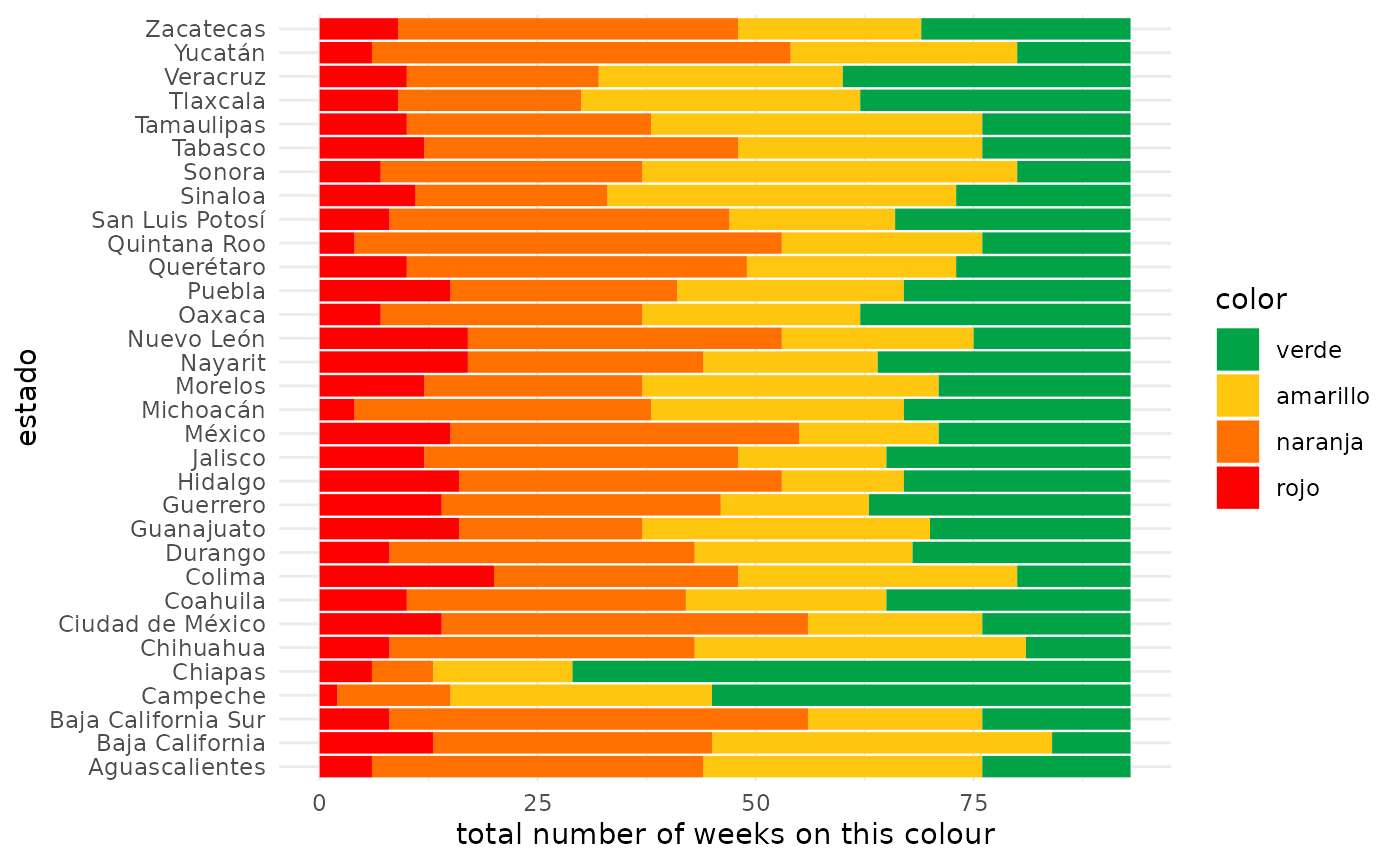
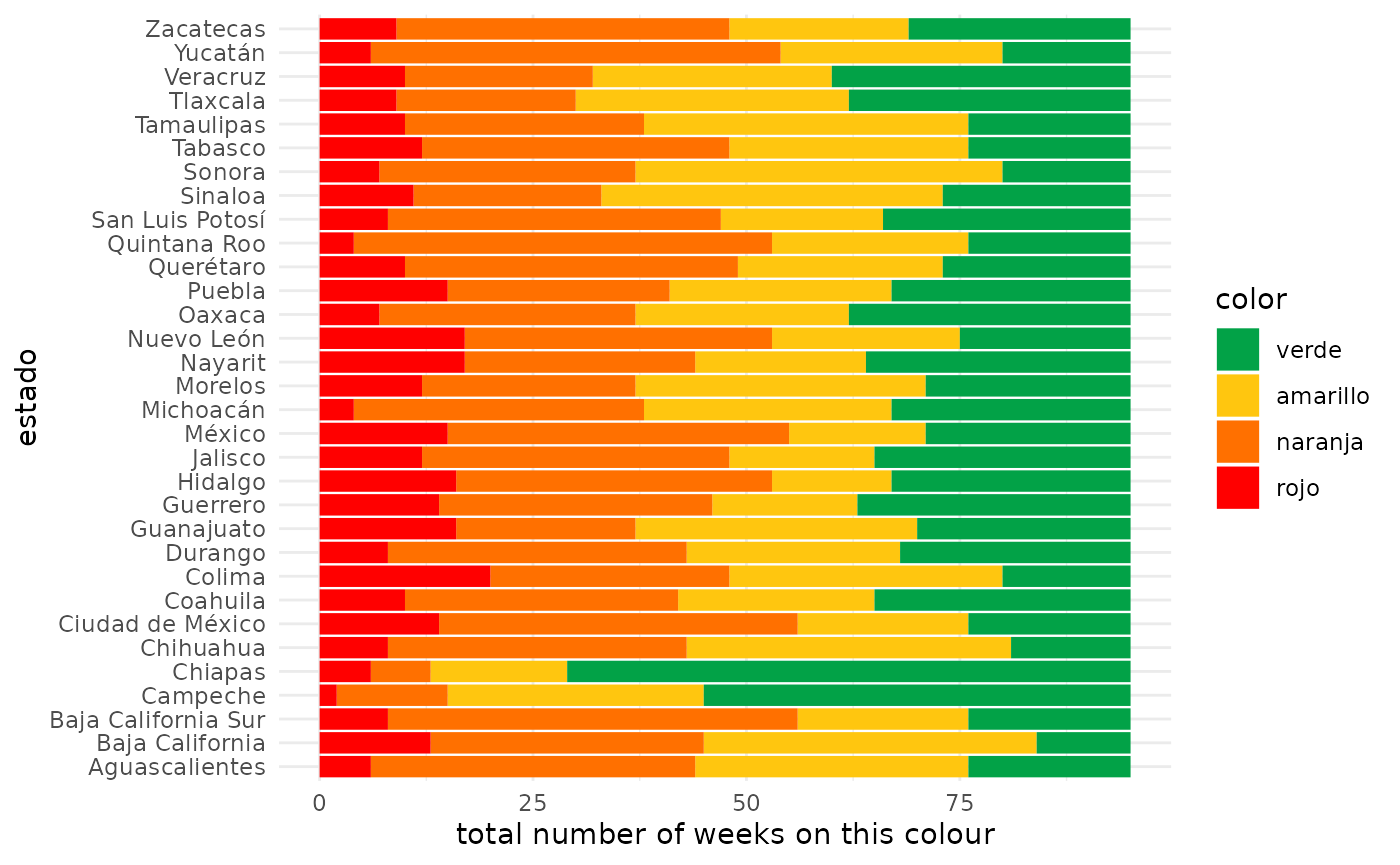
Deploying to gh-pages from @ Bisaloo/semaforos@39e5a9e5e9b524c49114589165b61118e1bcc486 🚀

diff --git a/articles/semaforos.html b/articles/semaforos.html
@@ -123,7 +123,7 @@
       <span class="fu"><a href="https://ggplot2.tidyverse.org/reference/labs.html" class="external-link">labs</a></span><span class="op">(</span>title <span class="op">=</span> <span class="fu"><a href="https://rdrr.io/r/base/paste.html" class="external-link">paste</a></span><span class="op">(</span><span class="st">"Semáforos for week"</span>, <span class="va">w</span><span class="op">)</span><span class="op">)</span>
   <span class="op">)</span>
 <span class="op">}</span></code></pre></div>
-<p><img src="semaforos_files/figure-html/maps-ggplot-1.png" width="30%"><img src="semaforos_files/figure-html/maps-ggplot-2.png" width="30%"><img src="semaforos_files/figure-html/maps-ggplot-3.png" width="30%"><img src="semaforos_files/figure-html/maps-ggplot-4.png" width="30%"><img src="semaforos_files/figure-html/maps-ggplot-5.png" width="30%"><img src="semaforos_files/figure-html/maps-ggplot-6.png" width="30%"><img src="semaforos_files/figure-html/maps-ggplot-7.png" width="30%"><img src="semaforos_files/figure-html/maps-ggplot-8.png" width="30%"><img src="semaforos_files/figure-html/maps-ggplot-9.png" width="30%"><img src="semaforos_files/figure-html/maps-ggplot-10.png" width="30%"><img src="semaforos_files/figure-html/maps-ggplot-11.png" width="30%"><img src="semaforos_files/figure-html/maps-ggplot-12.png" width="30%"><img src="semaforos_files/figure-html/maps-ggplot-13.png" width="30%"><img src="semaforos_files/figure-html/maps-ggplot-14.png" width="30%"><img src="semaforos_files/figure-html/maps-ggplot-15.png" width="30%"><img src="semaforos_files/figure-html/maps-ggplot-16.png" width="30%"><img src="semaforos_files/figure-html/maps-ggplot-17.png" width="30%"><img src="semaforos_files/figure-html/maps-ggplot-18.png" width="30%"><img src="semaforos_files/figure-html/maps-ggplot-19.png" width="30%"><img src="semaforos_files/figure-html/maps-ggplot-20.png" width="30%"><img src="semaforos_files/figure-html/maps-ggplot-21.png" width="30%"><img src="semaforos_files/figure-html/maps-ggplot-22.png" width="30%"><img src="semaforos_files/figure-html/maps-ggplot-23.png" width="30%"><img src="semaforos_files/figure-html/maps-ggplot-24.png" width="30%"><img src="semaforos_files/figure-html/maps-ggplot-25.png" width="30%"><img src="semaforos_files/figure-html/maps-ggplot-26.png" width="30%"><img src="semaforos_files/figure-html/maps-ggplot-27.png" width="30%"><img src="semaforos_files/figure-html/maps-ggplot-28.png" width="30%"><img src="semaforos_files/figure-html/maps-ggplot-29.png" width="30%"><img src="semaforos_files/figure-html/maps-ggplot-30.png" width="30%"><img src="semaforos_files/figure-html/maps-ggplot-31.png" width="30%"><img src="semaforos_files/figure-html/maps-ggplot-32.png" width="30%"><img src="semaforos_files/figure-html/maps-ggplot-33.png" width="30%"><img src="semaforos_files/figure-html/maps-ggplot-34.png" width="30%"><img src="semaforos_files/figure-html/maps-ggplot-35.png" width="30%"><img src="semaforos_files/figure-html/maps-ggplot-36.png" width="30%"><img src="semaforos_files/figure-html/maps-ggplot-37.png" width="30%"><img src="semaforos_files/figure-html/maps-ggplot-38.png" width="30%"><img src="semaforos_files/figure-html/maps-ggplot-39.png" width="30%"><img src="semaforos_files/figure-html/maps-ggplot-40.png" width="30%"><img src="semaforos_files/figure-html/maps-ggplot-41.png" width="30%"><img src="semaforos_files/figure-html/maps-ggplot-42.png" width="30%"><img src="semaforos_files/figure-html/maps-ggplot-43.png" width="30%"><img src="semaforos_files/figure-html/maps-ggplot-44.png" width="30%"><img src="semaforos_files/figure-html/maps-ggplot-45.png" width="30%"><img src="semaforos_files/figure-html/maps-ggplot-46.png" width="30%"><img src="semaforos_files/figure-html/maps-ggplot-47.png" width="30%"><img src="semaforos_files/figure-html/maps-ggplot-48.png" width="30%"><img src="semaforos_files/figure-html/maps-ggplot-49.png" width="30%"><img src="semaforos_files/figure-html/maps-ggplot-50.png" width="30%"><img src="semaforos_files/figure-html/maps-ggplot-51.png" width="30%"><img src="semaforos_files/figure-html/maps-ggplot-52.png" width="30%"><img src="semaforos_files/figure-html/maps-ggplot-53.png" width="30%"><img src="semaforos_files/figure-html/maps-ggplot-54.png" width="30%"><img src="semaforos_files/figure-html/maps-ggplot-55.png" width="30%"><img src="semaforos_files/figure-html/maps-ggplot-56.png" width="30%"><img src="semaforos_files/figure-html/maps-ggplot-57.png" width="30%"><img src="semaforos_files/figure-html/maps-ggplot-58.png" width="30%"><img src="semaforos_files/figure-html/maps-ggplot-59.png" width="30%"><img src="semaforos_files/figure-html/maps-ggplot-60.png" width="30%"><img src="semaforos_files/figure-html/maps-ggplot-61.png" width="30%"><img src="semaforos_files/figure-html/maps-ggplot-62.png" width="30%"><img src="semaforos_files/figure-html/maps-ggplot-63.png" width="30%"><img src="semaforos_files/figure-html/maps-ggplot-64.png" width="30%"><img src="semaforos_files/figure-html/maps-ggplot-65.png" width="30%"><img src="semaforos_files/figure-html/maps-ggplot-66.png" width="30%"><img src="semaforos_files/figure-html/maps-ggplot-67.png" width="30%"><img src="semaforos_files/figure-html/maps-ggplot-68.png" width="30%"><img src="semaforos_files/figure-html/maps-ggplot-69.png" width="30%"><img src="semaforos_files/figure-html/maps-ggplot-70.png" width="30%"><img src="semaforos_files/figure-html/maps-ggplot-71.png" width="30%"><img src="semaforos_files/figure-html/maps-ggplot-72.png" width="30%"><img src="semaforos_files/figure-html/maps-ggplot-73.png" width="30%"><img src="semaforos_files/figure-html/maps-ggplot-74.png" width="30%"><img src="semaforos_files/figure-html/maps-ggplot-75.png" width="30%"><img src="semaforos_files/figure-html/maps-ggplot-76.png" width="30%"><img src="semaforos_files/figure-html/maps-ggplot-77.png" width="30%"><img src="semaforos_files/figure-html/maps-ggplot-78.png" width="30%"><img src="semaforos_files/figure-html/maps-ggplot-79.png" width="30%"><img src="semaforos_files/figure-html/maps-ggplot-80.png" width="30%"><img src="semaforos_files/figure-html/maps-ggplot-81.png" width="30%"><img src="semaforos_files/figure-html/maps-ggplot-82.png" width="30%"><img src="semaforos_files/figure-html/maps-ggplot-83.png" width="30%"><img src="semaforos_files/figure-html/maps-ggplot-84.png" width="30%"><img src="semaforos_files/figure-html/maps-ggplot-85.png" width="30%"><img src="semaforos_files/figure-html/maps-ggplot-86.png" width="30%"><img src="semaforos_files/figure-html/maps-ggplot-87.png" width="30%"><img src="semaforos_files/figure-html/maps-ggplot-88.png" width="30%"><img src="semaforos_files/figure-html/maps-ggplot-89.png" width="30%"><img src="semaforos_files/figure-html/maps-ggplot-90.png" width="30%"><img src="semaforos_files/figure-html/maps-ggplot-91.png" width="30%"><img src="semaforos_files/figure-html/maps-ggplot-92.png" width="30%"><img src="semaforos_files/figure-html/maps-ggplot-93.png" width="30%"></p>
+<p><img src="semaforos_files/figure-html/maps-ggplot-1.png" width="30%"><img src="semaforos_files/figure-html/maps-ggplot-2.png" width="30%"><img src="semaforos_files/figure-html/maps-ggplot-3.png" width="30%"><img src="semaforos_files/figure-html/maps-ggplot-4.png" width="30%"><img src="semaforos_files/figure-html/maps-ggplot-5.png" width="30%"><img src="semaforos_files/figure-html/maps-ggplot-6.png" width="30%"><img src="semaforos_files/figure-html/maps-ggplot-7.png" width="30%"><img src="semaforos_files/figure-html/maps-ggplot-8.png" width="30%"><img src="semaforos_files/figure-html/maps-ggplot-9.png" width="30%"><img src="semaforos_files/figure-html/maps-ggplot-10.png" width="30%"><img src="semaforos_files/figure-html/maps-ggplot-11.png" width="30%"><img src="semaforos_files/figure-html/maps-ggplot-12.png" width="30%"><img src="semaforos_files/figure-html/maps-ggplot-13.png" width="30%"><img src="semaforos_files/figure-html/maps-ggplot-14.png" width="30%"><img src="semaforos_files/figure-html/maps-ggplot-15.png" width="30%"><img src="semaforos_files/figure-html/maps-ggplot-16.png" width="30%"><img src="semaforos_files/figure-html/maps-ggplot-17.png" width="30%"><img src="semaforos_files/figure-html/maps-ggplot-18.png" width="30%"><img src="semaforos_files/figure-html/maps-ggplot-19.png" width="30%"><img src="semaforos_files/figure-html/maps-ggplot-20.png" width="30%"><img src="semaforos_files/figure-html/maps-ggplot-21.png" width="30%"><img src="semaforos_files/figure-html/maps-ggplot-22.png" width="30%"><img src="semaforos_files/figure-html/maps-ggplot-23.png" width="30%"><img src="semaforos_files/figure-html/maps-ggplot-24.png" width="30%"><img src="semaforos_files/figure-html/maps-ggplot-25.png" width="30%"><img src="semaforos_files/figure-html/maps-ggplot-26.png" width="30%"><img src="semaforos_files/figure-html/maps-ggplot-27.png" width="30%"><img src="semaforos_files/figure-html/maps-ggplot-28.png" width="30%"><img src="semaforos_files/figure-html/maps-ggplot-29.png" width="30%"><img src="semaforos_files/figure-html/maps-ggplot-30.png" width="30%"><img src="semaforos_files/figure-html/maps-ggplot-31.png" width="30%"><img src="semaforos_files/figure-html/maps-ggplot-32.png" width="30%"><img src="semaforos_files/figure-html/maps-ggplot-33.png" width="30%"><img src="semaforos_files/figure-html/maps-ggplot-34.png" width="30%"><img src="semaforos_files/figure-html/maps-ggplot-35.png" width="30%"><img src="semaforos_files/figure-html/maps-ggplot-36.png" width="30%"><img src="semaforos_files/figure-html/maps-ggplot-37.png" width="30%"><img src="semaforos_files/figure-html/maps-ggplot-38.png" width="30%"><img src="semaforos_files/figure-html/maps-ggplot-39.png" width="30%"><img src="semaforos_files/figure-html/maps-ggplot-40.png" width="30%"><img src="semaforos_files/figure-html/maps-ggplot-41.png" width="30%"><img src="semaforos_files/figure-html/maps-ggplot-42.png" width="30%"><img src="semaforos_files/figure-html/maps-ggplot-43.png" width="30%"><img src="semaforos_files/figure-html/maps-ggplot-44.png" width="30%"><img src="semaforos_files/figure-html/maps-ggplot-45.png" width="30%"><img src="semaforos_files/figure-html/maps-ggplot-46.png" width="30%"><img src="semaforos_files/figure-html/maps-ggplot-47.png" width="30%"><img src="semaforos_files/figure-html/maps-ggplot-48.png" width="30%"><img src="semaforos_files/figure-html/maps-ggplot-49.png" width="30%"><img src="semaforos_files/figure-html/maps-ggplot-50.png" width="30%"><img src="semaforos_files/figure-html/maps-ggplot-51.png" width="30%"><img src="semaforos_files/figure-html/maps-ggplot-52.png" width="30%"><img src="semaforos_files/figure-html/maps-ggplot-53.png" width="30%"><img src="semaforos_files/figure-html/maps-ggplot-54.png" width="30%"><img src="semaforos_files/figure-html/maps-ggplot-55.png" width="30%"><img src="semaforos_files/figure-html/maps-ggplot-56.png" width="30%"><img src="semaforos_files/figure-html/maps-ggplot-57.png" width="30%"><img src="semaforos_files/figure-html/maps-ggplot-58.png" width="30%"><img src="semaforos_files/figure-html/maps-ggplot-59.png" width="30%"><img src="semaforos_files/figure-html/maps-ggplot-60.png" width="30%"><img src="semaforos_files/figure-html/maps-ggplot-61.png" width="30%"><img src="semaforos_files/figure-html/maps-ggplot-62.png" width="30%"><img src="semaforos_files/figure-html/maps-ggplot-63.png" width="30%"><img src="semaforos_files/figure-html/maps-ggplot-64.png" width="30%"><img src="semaforos_files/figure-html/maps-ggplot-65.png" width="30%"><img src="semaforos_files/figure-html/maps-ggplot-66.png" width="30%"><img src="semaforos_files/figure-html/maps-ggplot-67.png" width="30%"><img src="semaforos_files/figure-html/maps-ggplot-68.png" width="30%"><img src="semaforos_files/figure-html/maps-ggplot-69.png" width="30%"><img src="semaforos_files/figure-html/maps-ggplot-70.png" width="30%"><img src="semaforos_files/figure-html/maps-ggplot-71.png" width="30%"><img src="semaforos_files/figure-html/maps-ggplot-72.png" width="30%"><img src="semaforos_files/figure-html/maps-ggplot-73.png" width="30%"><img src="semaforos_files/figure-html/maps-ggplot-74.png" width="30%"><img src="semaforos_files/figure-html/maps-ggplot-75.png" width="30%"><img src="semaforos_files/figure-html/maps-ggplot-76.png" width="30%"><img src="semaforos_files/figure-html/maps-ggplot-77.png" width="30%"><img src="semaforos_files/figure-html/maps-ggplot-78.png" width="30%"><img src="semaforos_files/figure-html/maps-ggplot-79.png" width="30%"><img src="semaforos_files/figure-html/maps-ggplot-80.png" width="30%"><img src="semaforos_files/figure-html/maps-ggplot-81.png" width="30%"><img src="semaforos_files/figure-html/maps-ggplot-82.png" width="30%"><img src="semaforos_files/figure-html/maps-ggplot-83.png" width="30%"><img src="semaforos_files/figure-html/maps-ggplot-84.png" width="30%"><img src="semaforos_files/figure-html/maps-ggplot-85.png" width="30%"><img src="semaforos_files/figure-html/maps-ggplot-86.png" width="30%"><img src="semaforos_files/figure-html/maps-ggplot-87.png" width="30%"><img src="semaforos_files/figure-html/maps-ggplot-88.png" width="30%"><img src="semaforos_files/figure-html/maps-ggplot-89.png" width="30%"><img src="semaforos_files/figure-html/maps-ggplot-90.png" width="30%"><img src="semaforos_files/figure-html/maps-ggplot-91.png" width="30%"><img src="semaforos_files/figure-html/maps-ggplot-92.png" width="30%"><img src="semaforos_files/figure-html/maps-ggplot-93.png" width="30%"><img src="semaforos_files/figure-html/maps-ggplot-94.png" width="30%"><img src="semaforos_files/figure-html/maps-ggplot-95.png" width="30%"></p>
 </div>
 <div class="section level2">
 <h2 id="duration-of-each-semáforo">Duration of each semáforo<a class="anchor" aria-label="anchor" href="#duration-of-each-sem%C3%A1foro"></a>

diff --git a/reference/semaforos_get.html b/reference/semaforos_get.html
@@ -167,13 +167,20 @@ in the format <code>%Y-W%W</code> (e.g., "2021-W02")</p></li>
 <span class="r-out co"><span class="r-pr">#&gt;</span> 4    verde    verde    verde    verde    verde    verde    verde    verde</span>
 <span class="r-out co"><span class="r-pr">#&gt;</span> 5    verde    verde    verde    verde    verde    verde    verde    verde</span>
 <span class="r-out co"><span class="r-pr">#&gt;</span> 6 amarillo amarillo amarillo amarillo amarillo  naranja  naranja  naranja</span>
-<span class="r-out co"><span class="r-pr">#&gt;</span>   2022-W05 2022-W06 2022-W07 2022-W08 2022-W09 2022-W10 2022-W11</span>
-<span class="r-out co"><span class="r-pr">#&gt;</span> 1     rojo  naranja  naranja amarillo amarillo    verde    verde</span>
-<span class="r-out co"><span class="r-pr">#&gt;</span> 2  naranja  naranja  naranja    verde    verde    verde    verde</span>
-<span class="r-out co"><span class="r-pr">#&gt;</span> 3  naranja amarillo amarillo    verde    verde    verde    verde</span>
-<span class="r-out co"><span class="r-pr">#&gt;</span> 4    verde    verde    verde    verde    verde    verde    verde</span>
-<span class="r-out co"><span class="r-pr">#&gt;</span> 5    verde    verde    verde    verde    verde    verde    verde</span>
-<span class="r-out co"><span class="r-pr">#&gt;</span> 6  naranja  naranja  naranja amarillo amarillo    verde    verde</span>
+<span class="r-out co"><span class="r-pr">#&gt;</span>   2022-W05 2022-W06 2022-W07 2022-W08 2022-W09 2022-W10 2022-W11 2022-W12</span>
+<span class="r-out co"><span class="r-pr">#&gt;</span> 1     rojo  naranja  naranja amarillo amarillo    verde    verde    verde</span>
+<span class="r-out co"><span class="r-pr">#&gt;</span> 2  naranja  naranja  naranja    verde    verde    verde    verde    verde</span>
+<span class="r-out co"><span class="r-pr">#&gt;</span> 3  naranja amarillo amarillo    verde    verde    verde    verde    verde</span>
+<span class="r-out co"><span class="r-pr">#&gt;</span> 4    verde    verde    verde    verde    verde    verde    verde    verde</span>
+<span class="r-out co"><span class="r-pr">#&gt;</span> 5    verde    verde    verde    verde    verde    verde    verde    verde</span>
+<span class="r-out co"><span class="r-pr">#&gt;</span> 6  naranja  naranja  naranja amarillo amarillo    verde    verde    verde</span>
+<span class="r-out co"><span class="r-pr">#&gt;</span>   2022-W13</span>
+<span class="r-out co"><span class="r-pr">#&gt;</span> 1    verde</span>
+<span class="r-out co"><span class="r-pr">#&gt;</span> 2    verde</span>
+<span class="r-out co"><span class="r-pr">#&gt;</span> 3    verde</span>
+<span class="r-out co"><span class="r-pr">#&gt;</span> 4    verde</span>
+<span class="r-out co"><span class="r-pr">#&gt;</span> 5    verde</span>
+<span class="r-out co"><span class="r-pr">#&gt;</span> 6    verde</span>
 <span class="r-in"></span>
 <span class="r-in"><span class="va">sl</span> <span class="op">&lt;-</span> <span class="fu">semaforos_get</span><span class="op">(</span>format <span class="op">=</span> <span class="st">"long"</span><span class="op">)</span></span>
 <span class="r-in"><span class="fu"><a href="https://rdrr.io/r/utils/head.html" class="external-link">head</a></span><span class="op">(</span><span class="va">sl</span><span class="op">)</span></span>
